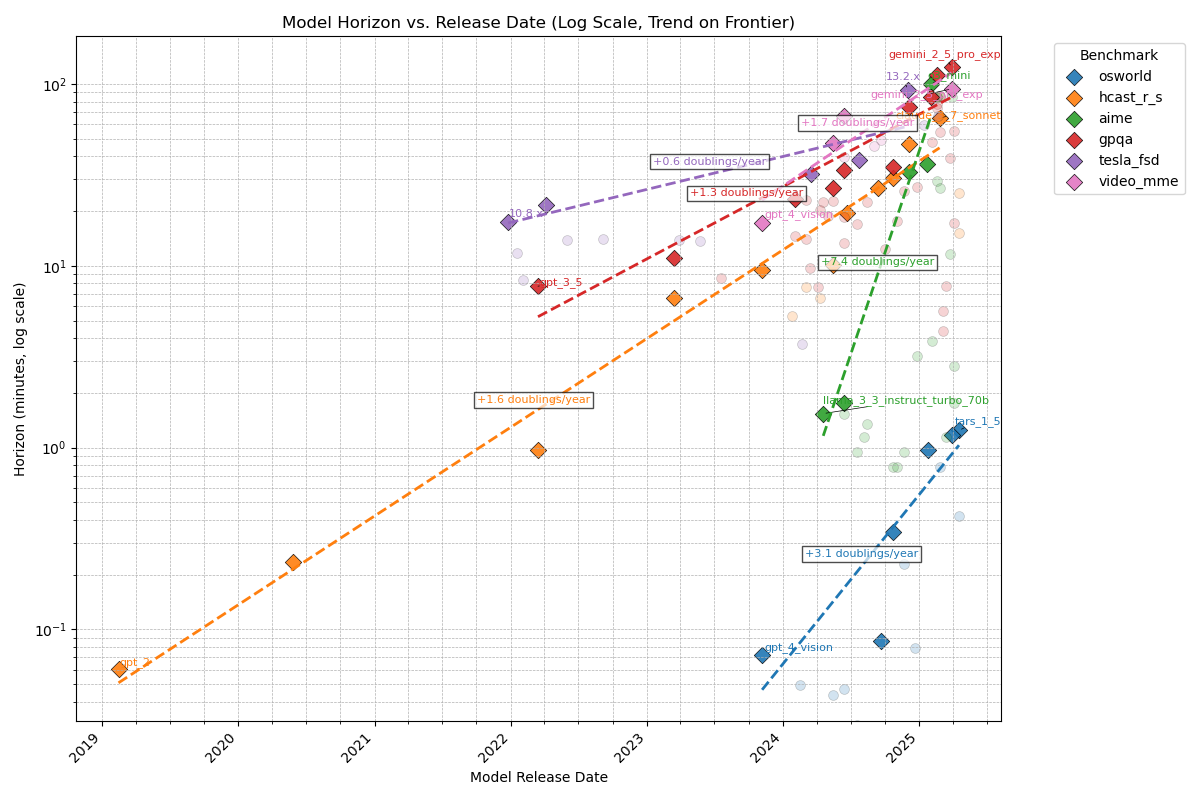
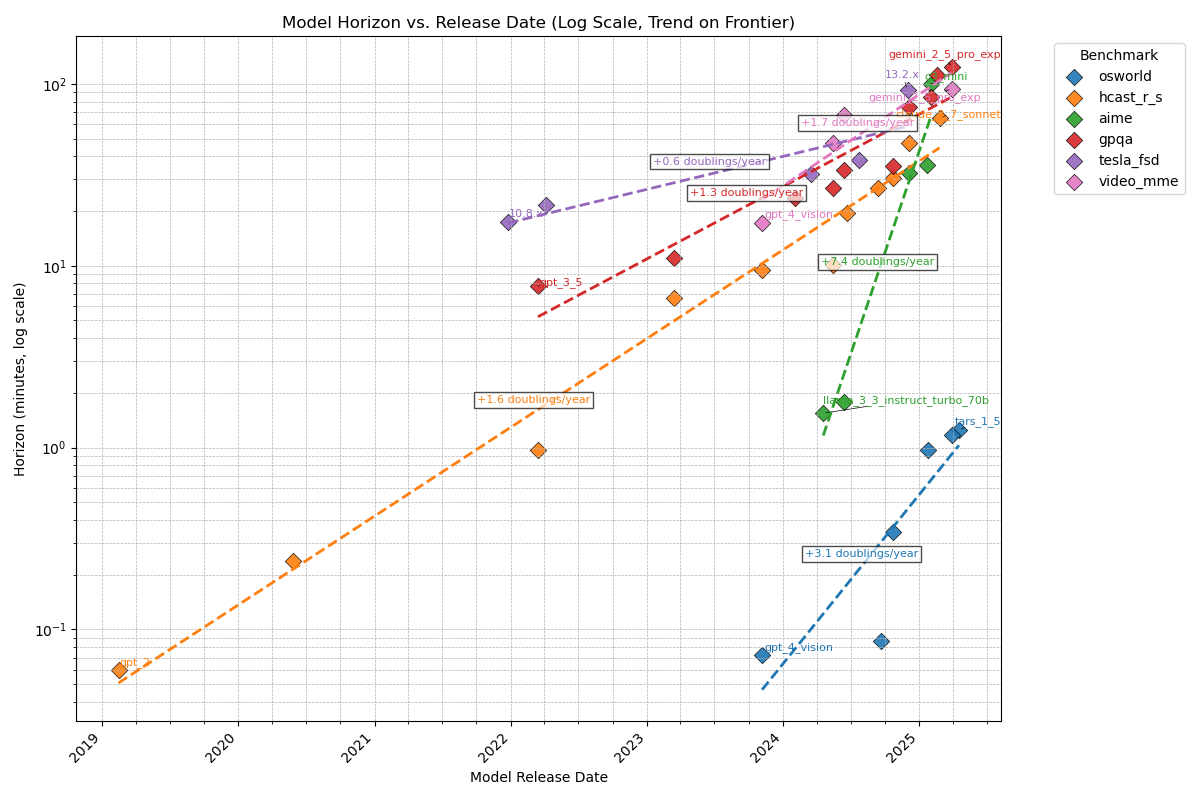
increase precision

diff --git a/plots.py b/plots.py
@@ -61,7 +61,10 @@ def plot_horizons(df, sorted_models):
     plt.close() # Close the plot to free memory
 
 
-def plot_lines_over_time(df, output_file, show_benchmarks=None, hide_benchmarks=None):
+def plot_lines_over_time(df, output_file,
+                         show_benchmarks=None,
+                         hide_benchmarks=None,
+                         only_frontier=True):
     """Generates and saves a scatter plot of horizon vs. release date with trendlines fitted in log space to frontier models."""
     if df.empty:
         print("No data loaded for lines over time plot.")
@@ -120,17 +123,18 @@ def plot_lines_over_time(df, output_file, show_benchmarks=None, hide_benchmarks=
         non_frontier_data = bench_data[~bench_data['is_frontier']]
 
         # Plot non-frontier points (circles)
-        ax.scatter(
-            non_frontier_data['release_date'], # Use datetime objects for x-axis plotting
-            non_frontier_data['horizon_minutes'],
-            color=color,
-            marker='o',
-            label=f"_{bench}_nonfrontier", # Main label for legend
-            alpha=0.2,
-            s=50,
-            edgecolor='k', # Add edge color for better visibility
-            linewidth=0.5
-        )
+        if not only_frontier:
+            ax.scatter(
+                non_frontier_data['release_date'], # Use datetime objects for x-axis plotting
+                non_frontier_data['horizon_minutes'],
+                color=color,
+                marker='o',
+                label=f"_{bench}_nonfrontier", # Main label for legend
+                alpha=0.2,
+                s=50,
+                edgecolor='k', # Add edge color for better visibility
+                linewidth=0.5
+            )
 
         # Plot frontier points (diamonds)
         ax.scatter(

diff --git a/calculate_horizons.py b/calculate_horizons.py
@@ -105,7 +105,7 @@ def estimate_horizon(score: int, bspec: BenchmarkSpec, n_iterations=100, min_hor
         expected = expected_score(horizon, bspec=bspec)
         
         # If the expected score is close enough to the target, return the horizon
-        if abs(expected - score) < 0.1:
+        if abs(expected - score) < 0.01:
             return horizon
         
         # Binary search in log space
